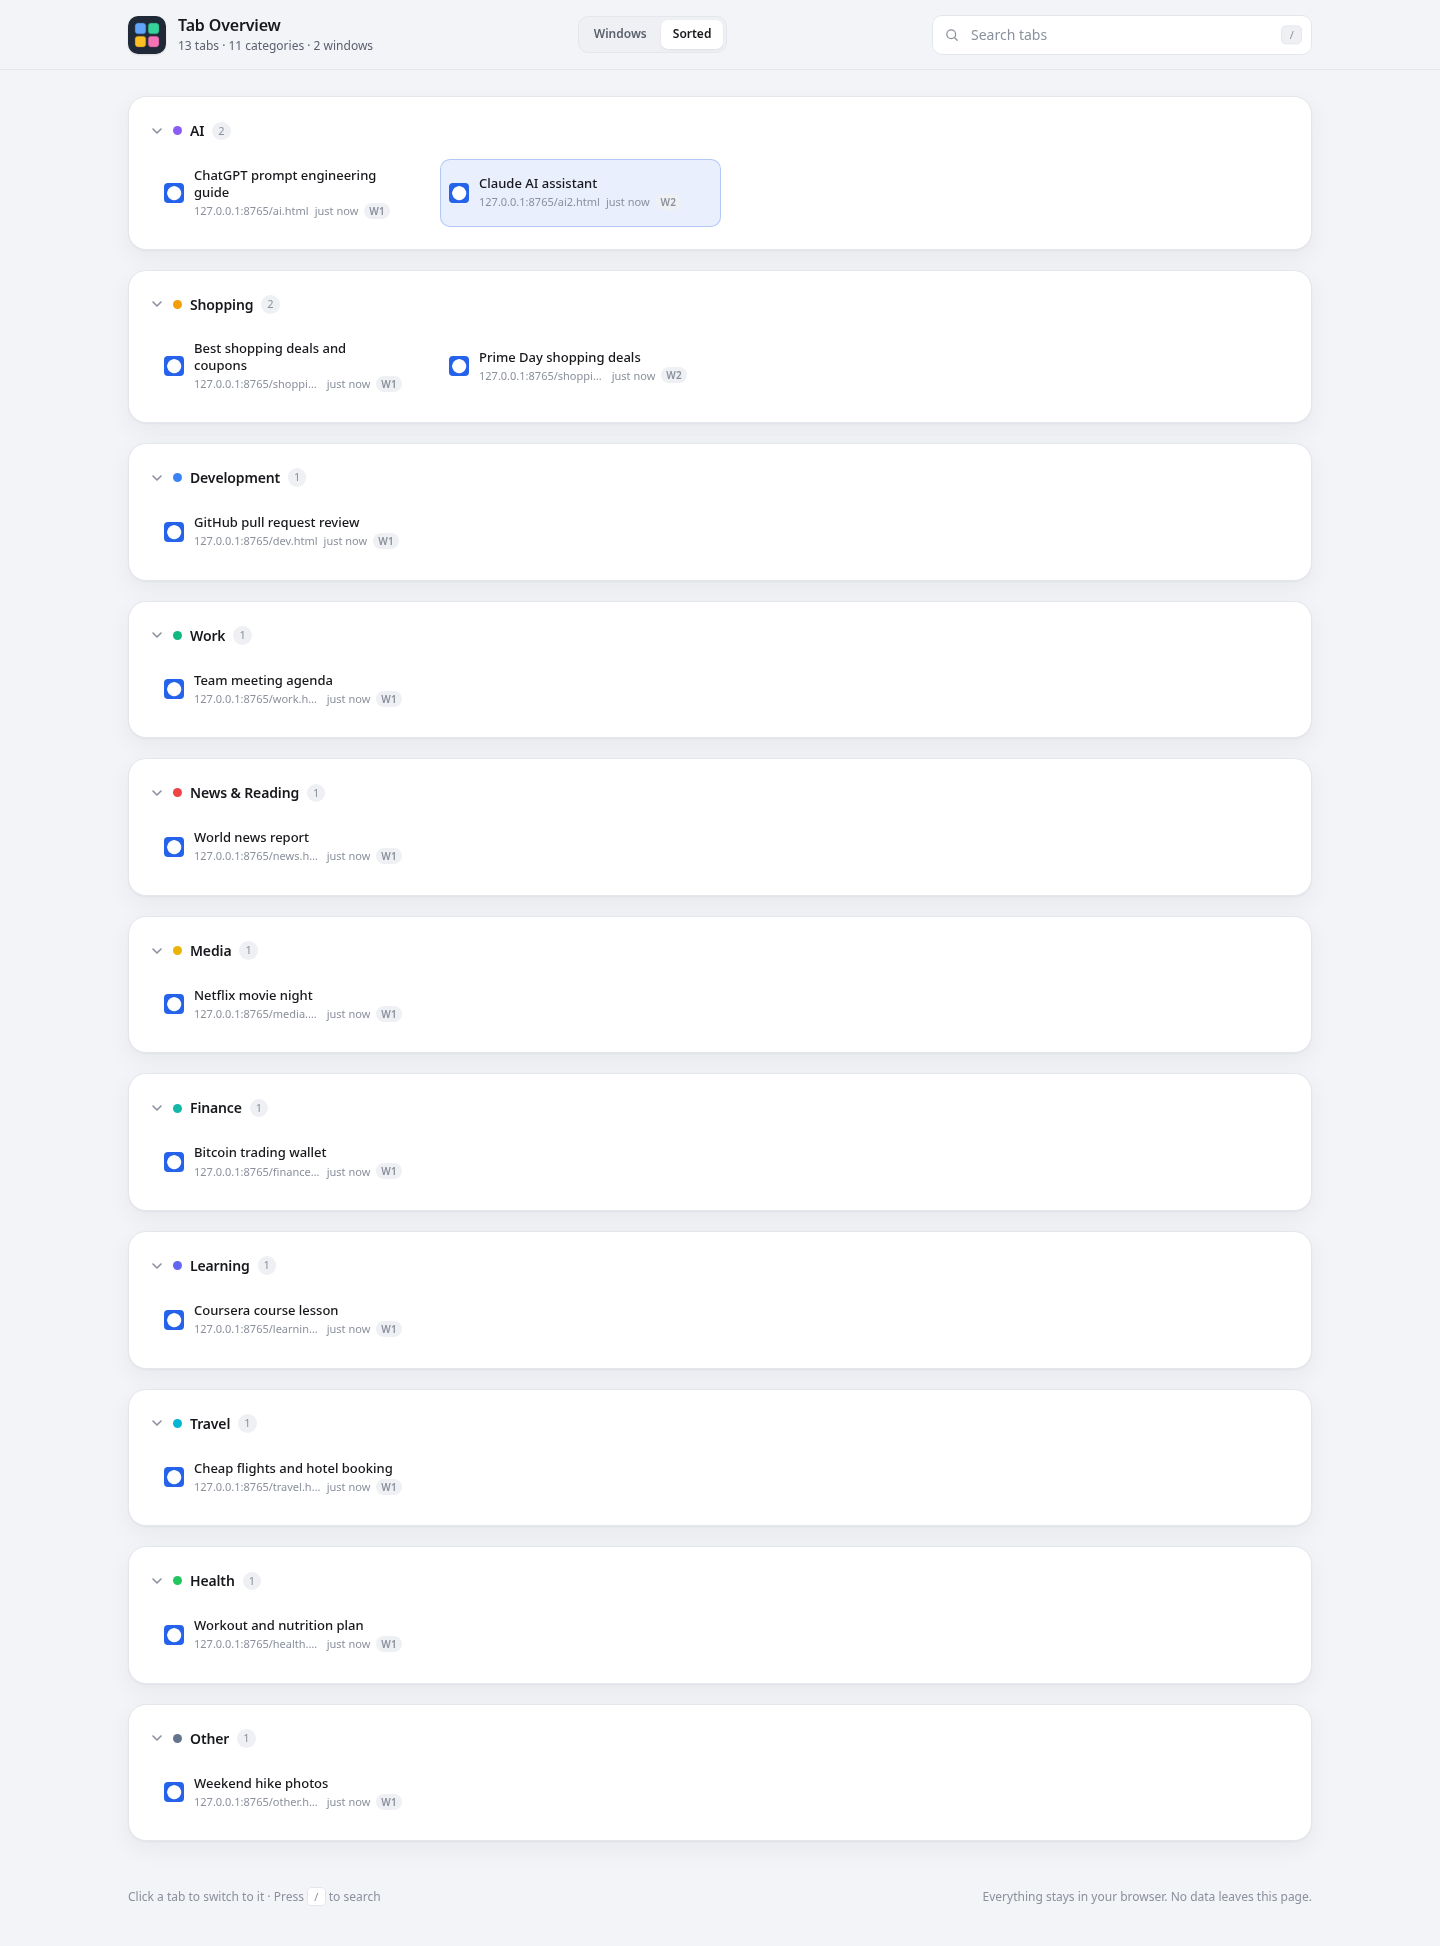
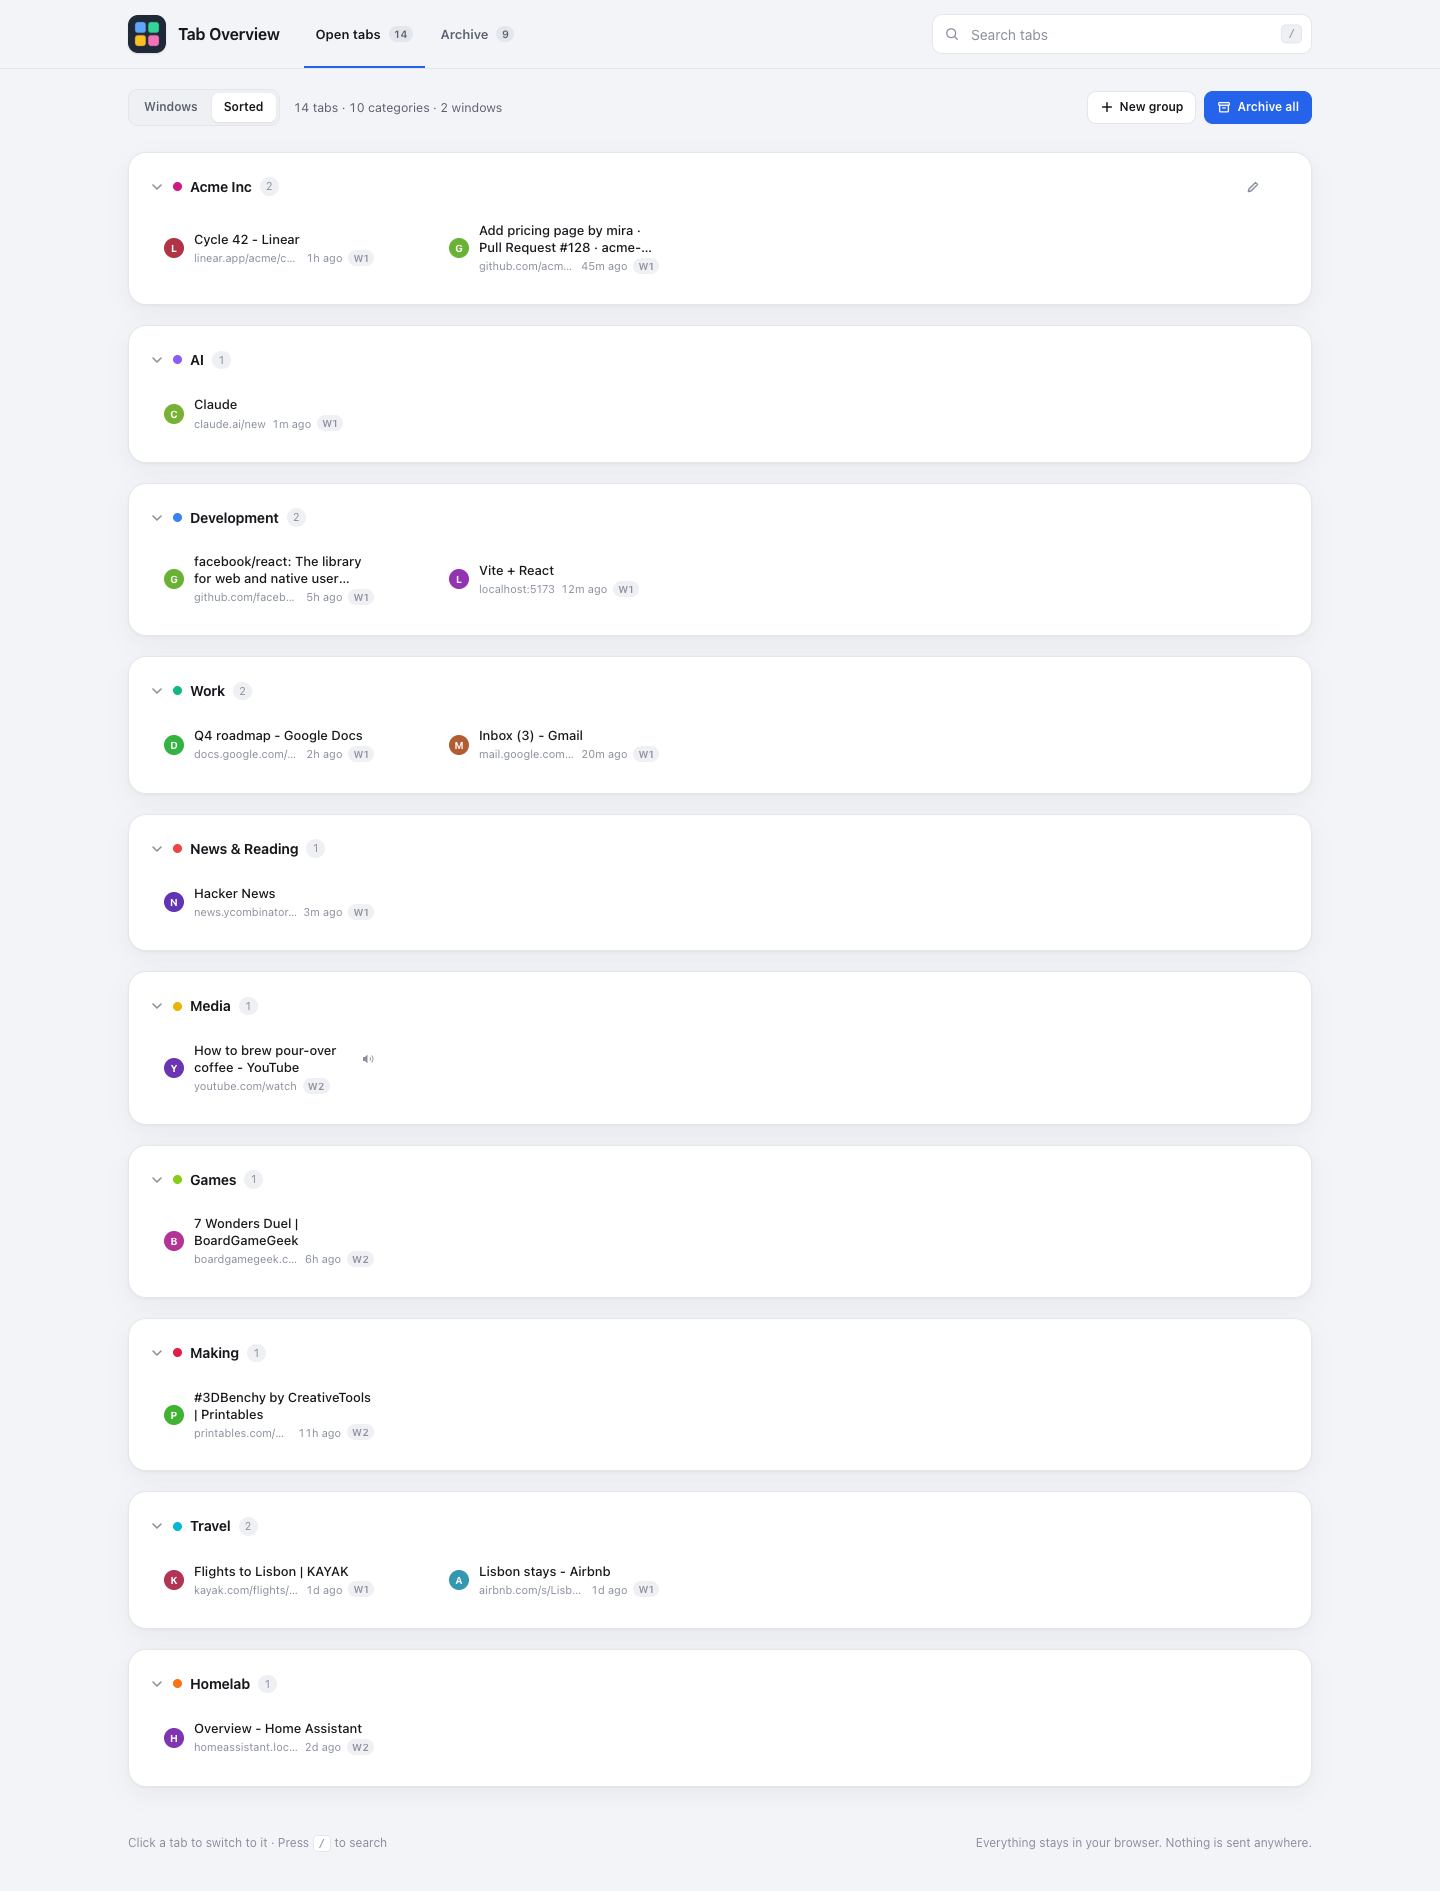
Regenerate README screenshots for the new header
Captured from neutral demo data at 1440 px wide in the light theme. Adds an
archive view screenshot.

diff --git a/README.md b/README.md
@@ -7,6 +7,8 @@ overview of every open tab, tab group, and window. Everything runs locally.
 
 ![Tab Overview sorted view](screenshot-sorted.png)
 
+![Tab Overview archive view](screenshot-archive.png)
+
 ## Is this feasible?
 
 Yes. Chrome and Firefox have supported new tab page overrides for years, and
@@ -224,6 +226,7 @@ archive.js        Tab archive storage, archive all, restore, export, and import
 icons/            Extension icons (SVG source + PNG sizes)
 screenshot.png    Window view preview
 screenshot-sorted.png  Sorted view preview
+screenshot-archive.png  Archive view preview
 ```
 
 ## License
